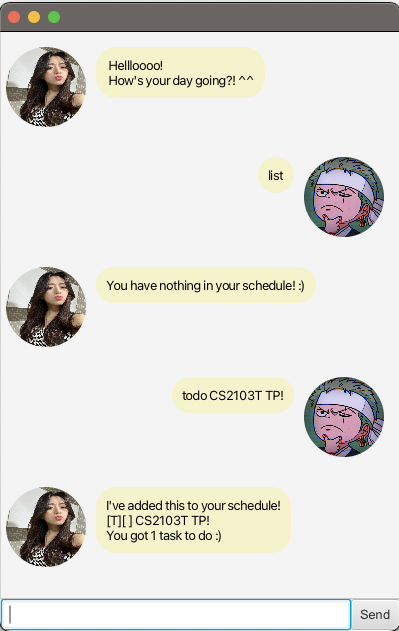
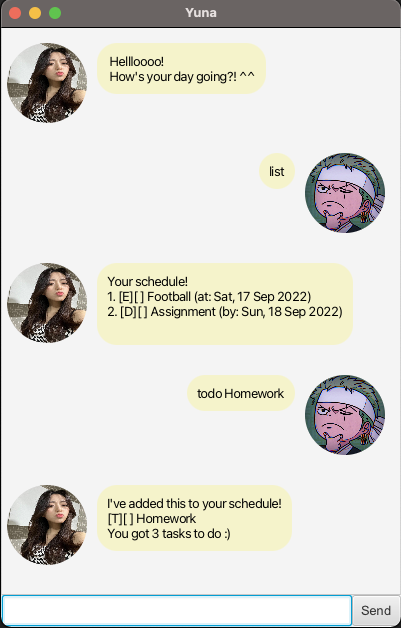
Add Ui.png

Changed region(s): [[0.0, 0.0, 1.0, 1.0], [0.2707, 0.7866, 0.7218, 0.8774], [0.6617, 0.242, 0.7218, 0.3025]]

diff --git a/src/main/java/yuna/gui/Main.java b/src/main/java/yuna/gui/Main.java
@@ -23,6 +23,7 @@ public class Main extends Application {
             AnchorPane ap = fxmlLoader.load();
             Scene scene = new Scene(ap);
             stage.setScene(scene);
+            stage.setTitle("Yuna");
             fxmlLoader.<MainWindow>getController().setYuna(yuna);
             fxmlLoader.<MainWindow>getController().sendGreeting();
             stage.show();
